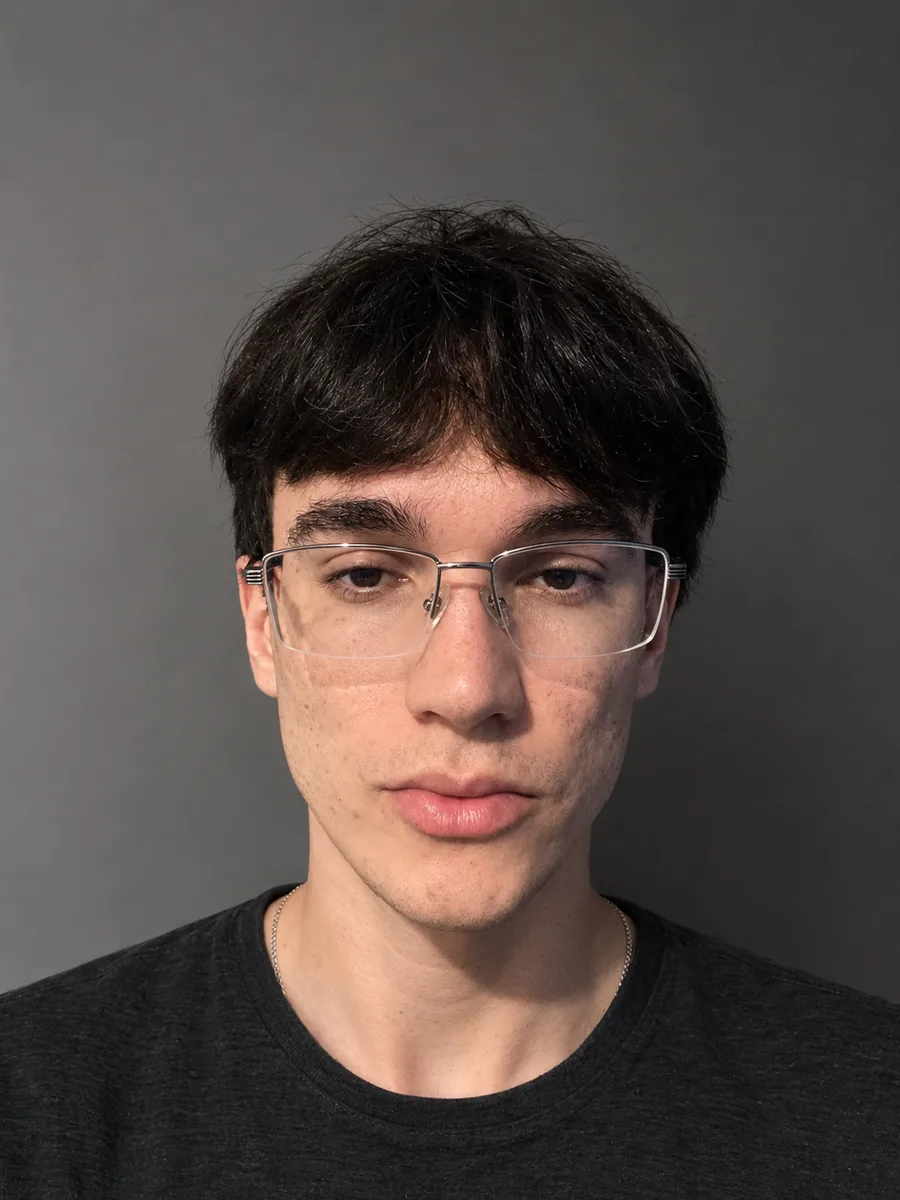
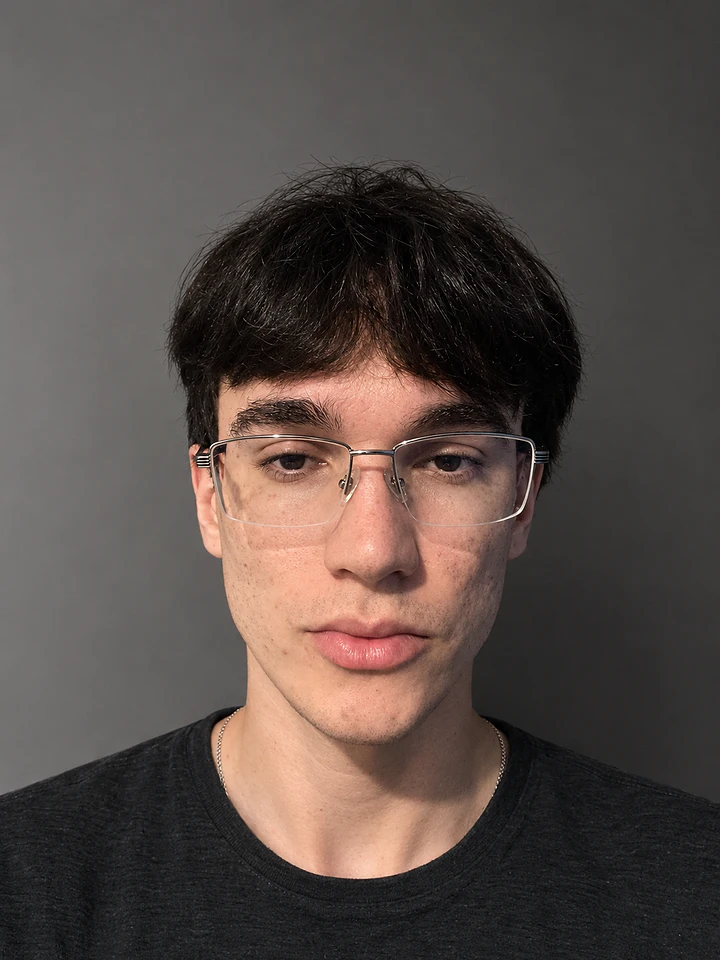
fix: foto do Sobre nítida, sem passar pelo otimizador de imagem

diff --git a/src/components/about.tsx b/src/components/about.tsx
@@ -15,13 +15,15 @@ export function About() {
       <div className="grid gap-14 lg:grid-cols-12 lg:gap-12">
         <div className="lg:col-span-6">
           <SectionHeading id="sobre-titulo" eyebrow={t("eyebrow")} title={t("title")} />
-          <Reveal className="mt-10 w-48 sm:w-60">
+          <Reveal className="mt-10 w-56 sm:w-72">
+            {/* Fora do otimizador: o AVIF dele reduz a qualidade e deixa o rosto com aspecto de cera.
+                O arquivo já vem em 720px, o bastante para tela retina. */}
             <Image
               src="/about/tiago.webp"
               alt={t("photo")}
-              width={900}
-              height={1200}
-              sizes="(min-width: 40rem) 15rem, 12rem"
+              width={720}
+              height={960}
+              unoptimized
               className="w-full rounded-lg shadow-[0_30px_60px_-30px_rgb(19_36_34/0.45)] ring-1 ring-ink/10"
             />
           </Reveal>
